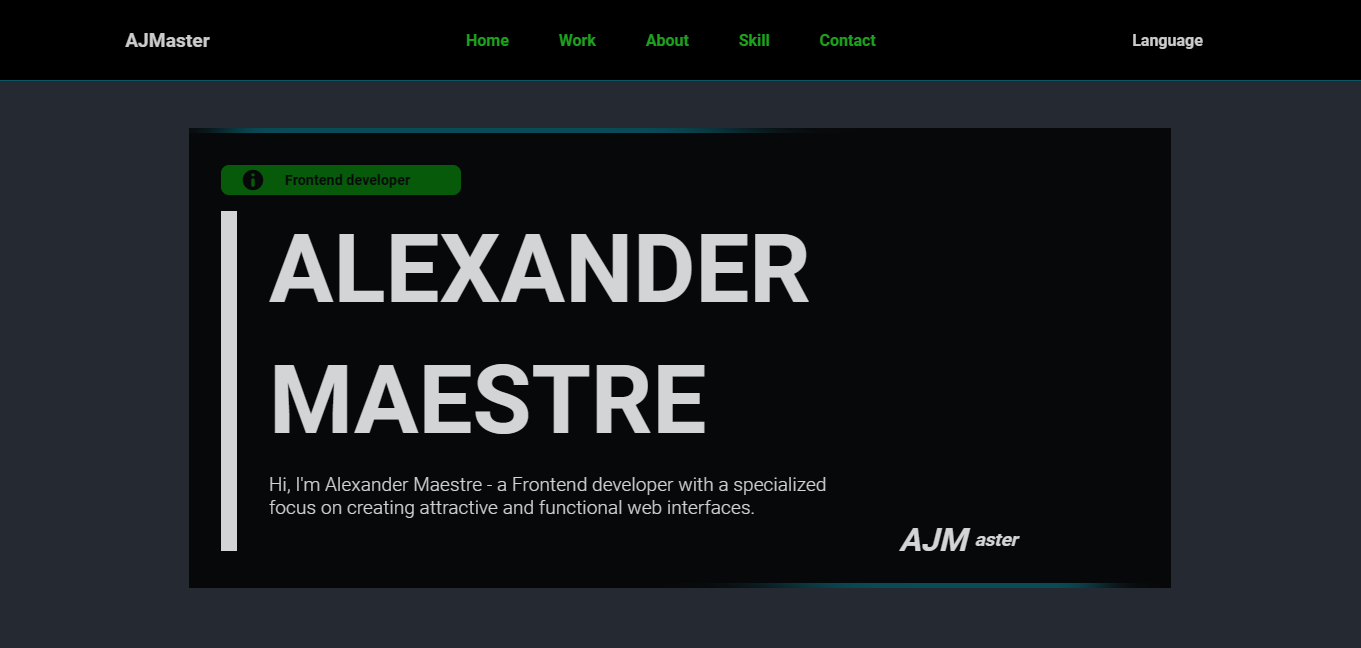
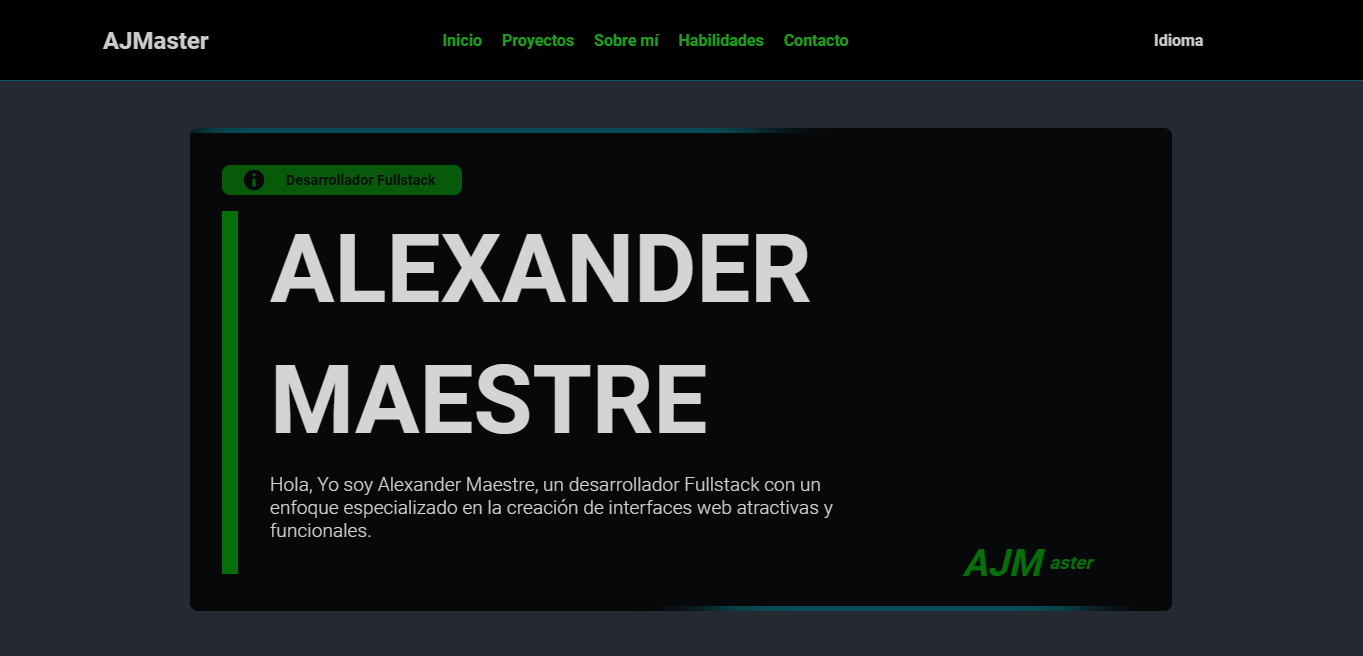
version 7.0.0

diff --git a/src/app/skill/skill.component.html b/src/app/skill/skill.component.html
@@ -10,7 +10,7 @@
                 <div class="fondo"></div>
                 <div class="body">
                     <div class="div-img">
-                        <svg fill="white" enable-background="new 0 0 30 30" height="30px" id="Layer_1" version="1.1"
+                        <svg fill="green" enable-background="new 0 0 30 30" height="30px" id="Layer_1" version="1.1"
                             viewBox="0 0 30 30" width="30px" xml:space="preserve" xmlns="http://www.w3.org/2000/svg"
                             xmlns:xlink="http://www.w3.org/1999/xlink">
                             <g>
@@ -31,7 +31,7 @@
                 <div class="fondo"></div>
                 <div class="body">
                     <div class="div-img">
-                        <svg fill="white" enable-background="new 0 0 30 30" height="30px" id="Layer_1" version="1.1"
+                        <svg fill="green" enable-background="new 0 0 30 30" height="30px" id="Layer_1" version="1.1"
                             viewBox="0 0 30 30" width="30px" xml:space="preserve" xmlns="http://www.w3.org/2000/svg"
                             xmlns:xlink="http://www.w3.org/1999/xlink">
                             <g>
@@ -50,7 +50,7 @@
                 <div class="fondo"></div>
                 <div class="body">
                     <div class="div-img">
-                        <svg fill="white" enable-background="new 0 0 30 30" height="30px" id="Layer_1" version="1.1"
+                        <svg fill="green" enable-background="new 0 0 30 30" height="30px" id="Layer_1" version="1.1"
                             viewBox="0 0 30 30" width="30px" xml:space="preserve" xmlns="http://www.w3.org/2000/svg"
                             xmlns:xlink="http://www.w3.org/1999/xlink">
                             <g>
@@ -69,7 +69,7 @@
                 <div class="fondo"></div>
                 <div class="body">
                     <div class="div-img">
-                        <svg xmlns="http://www.w3.org/2000/svg" width="32" height="32" viewBox="0 0 32 32" fill="white">
+                        <svg xmlns="http://www.w3.org/2000/svg" width="32" height="32" viewBox="0 0 32 32" fill="green">
                             <path
                                 d="M0 0h32v32h-32zM29.38 24.37c-0.234-1.464-1.188-2.688-4.005-3.833-0.979-0.458-2.073-0.781-2.396-1.521-0.12-0.438-0.141-0.677-0.063-0.938 0.203-0.865 1.219-1.12 2.021-0.88 0.521 0.161 1 0.557 1.302 1.198 1.38-0.901 1.38-0.901 2.339-1.5-0.359-0.557-0.536-0.802-0.781-1.036-0.839-0.943-1.958-1.422-3.776-1.38l-0.943 0.12c-0.901 0.219-1.76 0.698-2.281 1.339-1.516 1.719-1.078 4.719 0.76 5.964 1.818 1.359 4.479 1.656 4.823 2.938 0.318 1.563-1.161 2.063-2.625 1.88-1.078-0.24-1.677-0.781-2.339-1.781l-2.438 1.401c0.276 0.641 0.599 0.917 1.078 1.479 2.318 2.339 8.12 2.219 9.161-1.339 0.036-0.12 0.318-0.943 0.099-2.198zM17.401 14.708h-2.995c0 2.583-0.016 5.151-0.016 7.74 0 1.641 0.083 3.151-0.182 3.615-0.443 0.917-1.573 0.802-2.089 0.641-0.526-0.26-0.797-0.62-1.104-1.141-0.089-0.141-0.151-0.26-0.172-0.26l-2.432 1.5c0.406 0.839 1 1.563 1.766 2.021 1.141 0.682 2.672 0.901 4.276 0.542 1.042-0.302 1.943-0.922 2.411-1.88 0.682-1.24 0.536-2.76 0.531-4.464 0.016-2.74 0-5.479 0-8.24z" />
                         </svg>
@@ -84,7 +84,7 @@
                 <div class="fondo"></div>
                 <div class="body">
                     <div class="div-img">
-                        <svg xmlns="http://www.w3.org/2000/svg" width="32" height="32" viewBox="0 0 32 32" fill="white">
+                        <svg xmlns="http://www.w3.org/2000/svg" width="32" height="32" viewBox="0 0 32 32" fill="green">
                             <path
                                 d="M0 16v16h32v-32h-32zM25.786 14.724c0.813 0.203 1.432 0.568 2.005 1.156 0.292 0.312 0.729 0.885 0.766 1.026 0.010 0.042-1.38 0.974-2.224 1.495-0.031 0.021-0.156-0.109-0.292-0.313-0.411-0.599-0.844-0.859-1.505-0.906-0.969-0.063-1.594 0.443-1.589 1.292-0.005 0.208 0.042 0.417 0.135 0.599 0.214 0.443 0.615 0.708 1.854 1.245 2.292 0.984 3.271 1.635 3.88 2.557 0.682 1.031 0.833 2.677 0.375 3.906-0.51 1.328-1.771 2.234-3.542 2.531-0.547 0.099-1.849 0.083-2.438-0.026-1.286-0.229-2.505-0.865-3.255-1.698-0.297-0.323-0.87-1.172-0.833-1.229 0.016-0.021 0.146-0.104 0.292-0.188s0.682-0.396 1.188-0.688l0.922-0.536 0.193 0.286c0.271 0.411 0.859 0.974 1.214 1.161 1.021 0.542 2.422 0.464 3.115-0.156 0.281-0.234 0.438-0.594 0.417-0.958 0-0.37-0.047-0.536-0.24-0.813-0.25-0.354-0.755-0.656-2.198-1.281-1.651-0.714-2.365-1.151-3.010-1.854-0.406-0.464-0.708-1.010-0.88-1.599-0.12-0.453-0.151-1.589-0.057-2.042 0.339-1.599 1.547-2.708 3.281-3.036 0.563-0.109 1.875-0.068 2.427 0.068zM18.276 16.063l0.010 1.307h-4.167v11.839h-2.948v-11.839h-4.161v-1.281c0-0.714 0.016-1.307 0.036-1.323 0.016-0.021 2.547-0.031 5.62-0.026l5.594 0.016z" />
                         </svg>
@@ -99,7 +99,7 @@
                 <div class="fondo"></div>
                 <div class="body">
                     <div class="div-img">
-                        <svg xmlns="http://www.w3.org/2000/svg" width="32" height="32" viewBox="0 0 32 32" fill="white">
+                        <svg xmlns="http://www.w3.org/2000/svg" width="32" height="32" viewBox="0 0 32 32" fill="green">
                             <path
                                 d="M13.24 16.859h5.51l-2.755-6.542zM15.995 0.010l-15.078 5.307 2.297 19.677 12.781 6.995 12.786-6.984 2.297-19.688-15.083-5.302zM25.406 24.406h-3.516l-1.896-4.667h-8l-1.896 4.667h-3.516l9.411-20.865z" />
                         </svg>
@@ -114,7 +114,7 @@
                 <div class="fondo"></div>
                 <div class="body">
                     <div class="div-img">
-                        <svg fill="white" enable-background="new 0 0 30 30" height="30px" id="Layer_1" version="1.1"
+                        <svg fill="green" enable-background="new 0 0 30 30" height="30px" id="Layer_1" version="1.1"
                             viewBox="0 0 30 30" width="30px" xml:space="preserve" xmlns="http://www.w3.org/2000/svg"
                             xmlns:xlink="http://www.w3.org/1999/xlink">
                             <g>
@@ -139,7 +139,7 @@
                 <div class="fondo"></div>
                 <div class="body">
                     <div class="div-img">
-                        <svg xmlns="http://www.w3.org/2000/svg" width="32" height="32" viewBox="0 0 32 32" fill="white">
+                        <svg xmlns="http://www.w3.org/2000/svg" width="32" height="32" viewBox="0 0 32 32" fill="green">
                             <path
                                 d="M26.667 0h-21.333c-2.943 0.010-5.323 2.391-5.333 5.333v21.333c0 2.932 2.401 5.333 5.333 5.333h21.333c2.932 0 5.333-2.401 5.333-5.333v-21.333c0-2.932-2.401-5.333-5.333-5.333zM23.75 22.474c-0.266 0.641-0.688 1.208-1.229 1.646-0.563 0.453-1.271 0.828-2.146 1.094-0.87 0.271-1.906 0.406-3.109 0.406h-8.573v-18.667h9.068c1.677 0 3.021 0.375 4.026 1.146 1.016 0.771 1.516 1.927 1.516 3.479 0 0.943-0.229 1.745-0.688 2.411s-1.12 1.182-1.974 1.542v0.063c1.141 0.24 2.021 0.781 2.599 1.62s0.88 1.901 0.88 3.182c0 0.719-0.141 1.401-0.401 2.036l0.031 0.036zM20.047 17.875c-0.542-0.5-1.313-0.745-2.302-0.745h-5.766v5.823h5.781c0.984 0 1.76-0.255 2.307-0.771s0.823-1.25 0.823-2.188c-0.010-0.922-0.276-1.635-0.823-2.12h-0.026zM19.25 14.109c0.526-0.448 0.786-1.089 0.786-1.927 0-0.938-0.234-1.604-0.708-1.984-0.469-0.38-1.146-0.578-2.036-0.578h-5.333v5.151h5.333c0.776 0 1.443-0.229 1.953-0.661z" />
                         </svg>

diff --git a/src/app/work/work.component.html b/src/app/work/work.component.html
@@ -196,6 +196,37 @@
             </div>
         </div>
 
+        <div class="card" data-aos="fade-right">
+            <div class="fondo"></div>
+            <div class="body">
+                <div class="div-img" id="portfolio">
+                    <app-desktop class="svg icon"></app-desktop>
+                    <div class="labels">
+                        <span class="label">Angular</span>
+                        <span class="label">ExpressJs</span>
+                    </div>
+                </div>
+                <div class="content">
+                    <p class="title">Portfolio</p>
+                    <p class="text">
+                        {{"portfolioapp-description" | translate}}
+                    </p>
+                </div>
+                <div class="links">
+                    <a href="https://github.com/ajmaestre/portfolio" target="_blank"
+                        class="text contacts tooltip link-g">
+                        <span class="tooltiptext">GitHub</span>
+                        <app-github class="svg icon"></app-github>
+                    </a>
+
+                    <a href="https://ajmaestre.github.io/portfolio" target="_blank" class="text contacts tooltip link-gp">
+                        <span class="tooltiptext">GitHub Pages</span>
+                        <app-www class="svg icon"></app-www>
+                    </a>
+                </div>
+            </div>
+        </div>
+
     </div>
 
 </div>

diff --git a/src/app/about/about.component.css b/src/app/about/about.component.css
@@ -36,7 +36,7 @@
     color: #000000;
     font-size: .9rem;
     font-weight: bold;
-    background: white;
+    background: #008000;
     filter: opacity(80%);
     display: flex;
     align-items: center;
@@ -45,13 +45,14 @@
 .charge svg {
     width: 1.5rem;
     margin-right: 1rem;
-    background: white;
+    background: #008000;
 }
 
 .info {
     border: none;
     padding-left: 2rem;
     padding-bottom: 2rem;
+    margin-bottom: 2rem;
     display: flex;
     align-items: center;
     justify-content: center;
@@ -89,15 +90,21 @@ h1 {
     bottom: 1rem;
     display: flex;
     align-items: center;
-    justify-content: flex-start;
+    justify-content: flex-end;
     font-style: italic;
     height: 4rem;
+    margin-top: 5rem;
 }
 
 .icon {
     font-size: 2rem;
     margin-right: .5rem;
     font-weight: bold;
+    text-align: end;
+}
+
+.div-icon h3{
+    color: #008000;
 }
 
 .fondo {
@@ -115,10 +122,11 @@ h1 {
 .foto {
     width: 20rem;
     height: 12rem;
-    border-radius: 50%;
+    border-radius: .5rem;
     margin-right: 3rem;
-    background: url(../../assets/images/foto.jpg);
+    background: url(../../assets/images/foto4.jpeg);
     background-size: cover;
+    background-position: center;
 }
 
 @keyframes rotat {

diff --git a/src/app/work/work.component.css b/src/app/work/work.component.css
@@ -7,8 +7,8 @@
     background: #242932;
     background-size: cover;
     filter: opacity(80%);
-    max-width: 100vw;
     min-height: 100vh;
+    padding-bottom: 4rem;
 }
 
 h1 {
@@ -29,8 +29,8 @@ h1 {
 }
 
 .card {
-    width: 20%;
-    height: 25rem;
+    width: 25%;
+    height: 30rem;
     background-color: black;
     filter: opacity(80%);
     margin: 2rem 3rem;
@@ -94,13 +94,19 @@ h1 {
     background-position: center;
 }
 
+#portfolio{
+    background: url(../../assets/images/portfolio.png);
+    background-size: cover;
+    background-position: center;
+}
+
 .fondo {
     z-index: -1;
     position: absolute;
     left: 0rem;
     top: 0;
     width: 100%;
-    height: 22rem;
+    height: 30rem;
     background-color: rgb(100, 100, 100);
     background: linear-gradient(180deg, rgb(1, 85, 97) 0%, rgba(1, 85, 97, 1) 35%, rgba(1, 85, 97, 1) 100%);
     box-shadow: 0 0 20px rgb(50, 50, 50);
@@ -110,7 +116,7 @@ h1 {
 
 .div-img {
     width: 100%;
-    height: 20rem;
+    height: 25rem;
     padding: 1rem;
     background: transparent;
     margin-bottom: .5rem;

diff --git a/src/app/home/home.component.css b/src/app/home/home.component.css
@@ -17,6 +17,7 @@
     justify-content: center;
     position: relative;
     padding: .3rem 0;
+    border-radius: .5rem;
     background-color: black;
     filter: opacity(80%);
 }
@@ -48,7 +49,7 @@
 
 .info {
     border: none;
-    border-left: 1rem solid white;
+    border-left: 1rem solid #008000;
     padding-left: 2rem;
     padding-bottom: 2rem;
 }
@@ -86,7 +87,7 @@ h1 {
     bottom: 1rem;
     display: flex;
     align-items: center;
-    justify-content: flex-start;
+    justify-content: flex-end;
     font-style: italic;
     height: 4rem;
     padding: 2rem 0;
@@ -96,6 +97,11 @@ h1 {
     font-size: 2rem;
     margin-right: .5rem;
     font-weight: bold;
+    text-align: right;
+}
+
+.div-icon h3{
+    color: green;
 }
 
 .fondo {

diff --git a/src/app/skill/skill.component.css b/src/app/skill/skill.component.css
@@ -8,6 +8,7 @@
     background-size: cover;
     filter: opacity(80%);
     min-height: 100vh;
+    padding-bottom: 4rem;
 }
 
 h1 {
@@ -49,7 +50,7 @@ h1 {
 }
 
 .card {
-    width: 15%;
+    width: 20%;
     height: 10rem;
     background-color: black;
     filter: opacity(80%);
@@ -130,6 +131,7 @@ svg {
 .title {
     font-size: 1.2rem;
     font-weight: bold;
+    color: green;
 }
 
 .links {
@@ -202,7 +204,7 @@ svg {
     }
 
     .card {
-        width: 25%;
+        width: 35%;
         margin: 1.5rem .5rem;
     }
 

diff --git a/src/app/about/about.component.html b/src/app/about/about.component.html
@@ -32,7 +32,7 @@
             </div>
             <div class="div-icon">
                 <div class="icon">
-                    AJM
+                    <h3>AJM</h3>
                 </div>
                 <h3>
                     aster

diff --git a/src/app/home/home.component.html b/src/app/home/home.component.html
@@ -26,7 +26,7 @@
             </div>
             <div class="div-icon">
                 <div class="icon">
-                    AJM
+                    <h3>AJM</h3>
                 </div>
                 <h3>
                     aster

diff --git a/src/app/nav/nav.component.css b/src/app/nav/nav.component.css
@@ -19,8 +19,14 @@
     background: transparent;
 }
 
+.logo{
+    display: flex;
+    align-items: center;
+    justify-content: center;
+}
+
 h2 {
-    font-size: 1.2rem;
+    font-size: 1.5rem;
     background: transparent;
 }
 

diff --git a/src/app/contact/contact.component.css b/src/app/contact/contact.component.css
@@ -26,6 +26,7 @@ h1 {
     margin-top: .5rem;
     margin-bottom: 41px;
     padding: .2rem;
+    border-radius: .5rem;
     background-color: black;
     filter: opacity(90%);
     position: relative;

diff --git a/src/app/footer/footer.component.css b/src/app/footer/footer.component.css
@@ -5,6 +5,7 @@
     justify-content: center;
     color: #000000;
     background-size: cover;
+    height: 60vh;
 }
 
 .footer {
